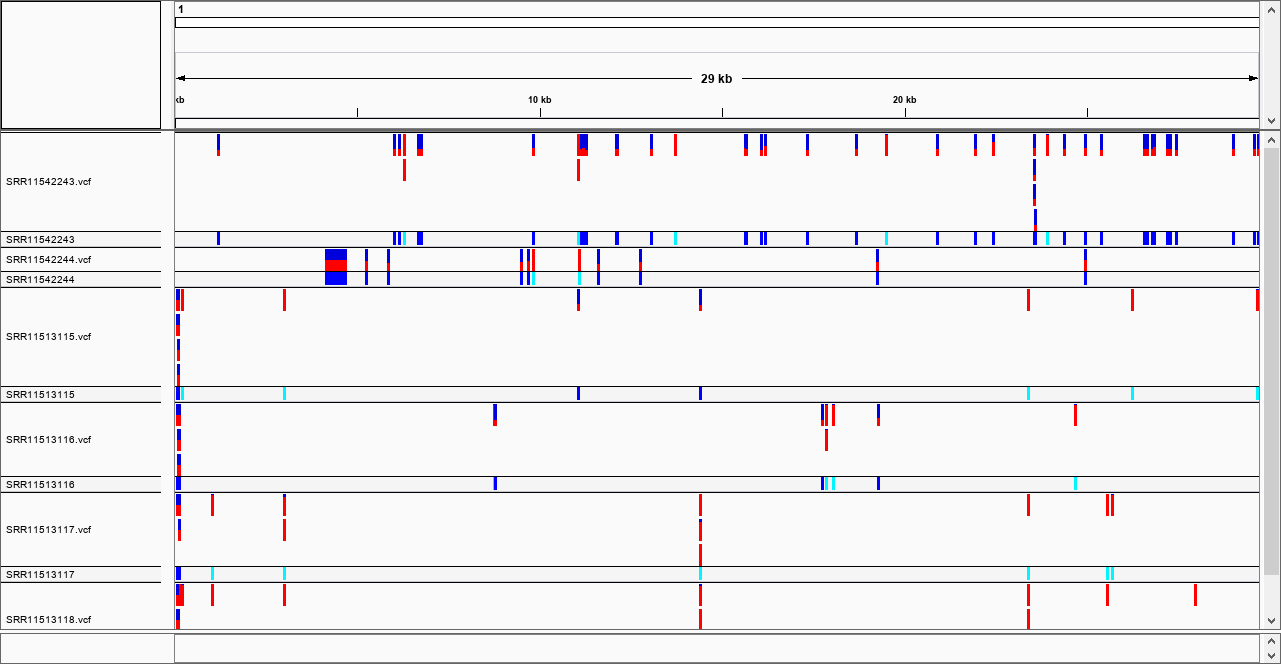
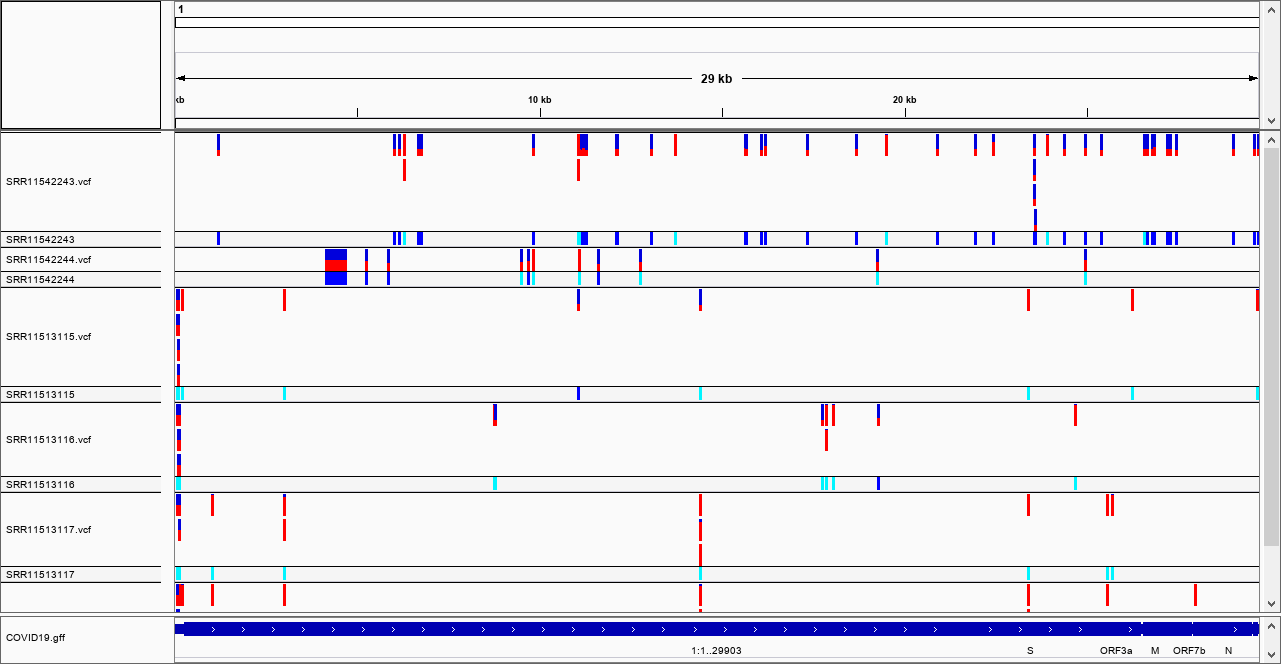
update COVID19 example

Changed region(s): [[0.1249, 0.9036, 1.0, 0.994], [0.0, 0.9036, 0.0937, 0.9639], [0.968, 0.8133, 0.9992, 0.8735]]

diff --git a/covid19/index.html b/covid19/index.html
@@ -37,16 +37,19 @@
     Integrative Genomics Viewer (IVG) is a product of Broad Institute.<br>
     Download and install IVG from <a href = "http://software.broadinstitute.org/software/igv/download" target = "_blank">http://software.broadinstitute.org/software/igv/download</a>.<br>
     Fasta file of reference is saved in "ped/COVID19/COVID19.fasta".<br>
-    Click Genomes tab of IVG and load COVID19.fasta file.<br>
+    Click Genomes tab of IVG and load "COVID19.fasta" and "COVID19.gff" files.<br>
     Click File tab and load "ped/SRR11513115/SRR11513115.vcf" and other vcf files.<br>
     <li><b>Files</b><br>
     <a href = "COVID19.fasta" target = "_blank">COVID19.fasta</a><br>
+    <a href = "COVID19.gff" target = "_blank">COVID19.gff</a><br>
+    <a href = "SRR11542243.vcf" target = "_blank">SRR11542243.vcf</a> Sample from University Malaya<br>
+    <a href = "SRR11542244.vcf" target = "_blank">SRR11542244.vcf</a> Sample from University Malaya<br>
     <a href = "SRR11513115.vcf" target = "_blank">SRR11513115.vcf</a> Sample from Utah Public Health Laboratory<br>
     <a href = "SRR11513116.vcf" target = "_blank">SRR11513116.vcf</a> Sample from Utah Public Health Laboratory<br>
     <a href = "SRR11513117.vcf" target = "_blank">SRR11513117.vcf</a> Sample from Utah Public Health Laboratory<br>
     <a href = "SRR11513118.vcf" target = "_blank">SRR11513118.vcf</a> Sample from Utah Public Health Laboratory<br>
-    <a href = "SRR11542243.vcf" target = "_blank">SRR11542243.vcf</a> Sample from University Malaya<br>
-    <a href = "SRR11542244.vcf" target = "_blank">SRR11542244.vcf</a> Sample from University Malaya<br>
+    <li><b>Author</b><br>
+    MIYAO Akio (miyao@affrc.go.jp)
     </ul>
     <br>
    
